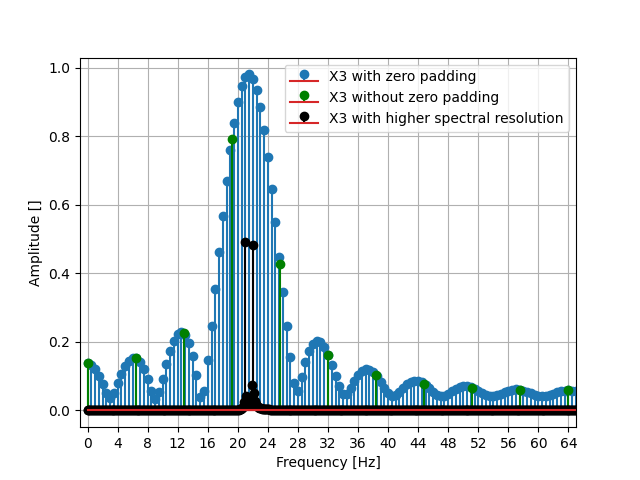
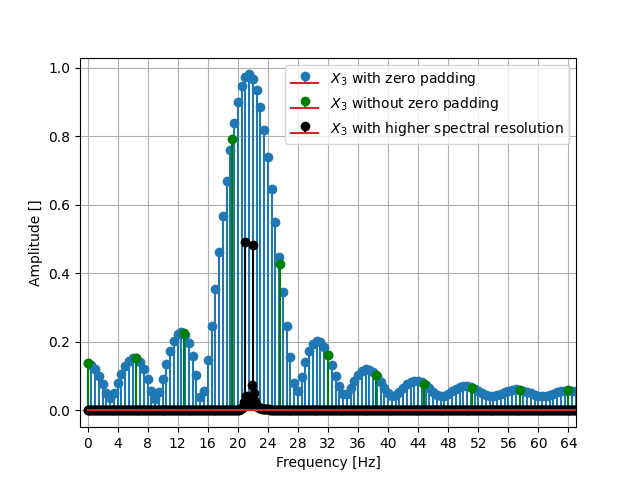
Done3

Changed region(s): [[0.4375, 0.125, 0.9062, 0.3125]]

diff --git a/Assignment 4/2.py b/Assignment 4/2.py
@@ -32,8 +32,8 @@ L = 256
 fs = 1/Ts
 fl2 = np.arange(0, L)/L*fs
 
-plt.stem(fl2, np.abs(X1b), label='X1 without zero padding')
-plt.stem(fl, np.abs(X1), label='X1 with zero padding', markerfmt="g", linefmt="g")
+plt.stem(fl2, np.abs(X1b), label='$X_1$ without zero padding')
+plt.stem(fl, np.abs(X1), label='$X_1$ with zero padding', markerfmt="g", linefmt="g")
 
 plt.legend()
 
@@ -51,8 +51,8 @@ plt.clf()
 
 
 
-plt.stem(fl2, np.abs(X2b), label='X2 without zero padding')
-plt.stem(fl, np.abs(X2), label='X2 with zero padding', markerfmt="g", linefmt="g")
+plt.stem(fl2, np.abs(X2b), label='$X_2$ without zero padding')
+plt.stem(fl, np.abs(X2), label='$X_2$ with zero padding', markerfmt="g", linefmt="g")
 
 plt.legend()
 plt.xlim(-1, fs/2+1)

diff --git a/Assignment 4/3.py b/Assignment 4/3.py
@@ -31,9 +31,9 @@ L = 256
 fs = 1/Ts
 fl2 = np.arange(0, L)/L*fs
 
-plt.stem(fl2, np.abs(X3b), label='X3 with zero padding')
+plt.stem(fl2, np.abs(X3b), label='$X_3$ with zero padding')
 
-plt.stem(fl, np.abs(X3), label='X3 without zero padding', markerfmt="g", linefmt="g")
+plt.stem(fl, np.abs(X3), label='$X_3$ without zero padding', markerfmt="g", linefmt="g")
 
 
 
@@ -51,7 +51,7 @@ fs = 1/Ts
 fl = np.arange(0, L)/L*fs
 
 
-plt.stem(fl, np.abs(X3), label="X3 with higher spectral resolution", markerfmt="k", linefmt="k")
+plt.stem(fl, np.abs(X3), label="$X_3$ with higher spectral resolution", markerfmt="k", linefmt="k")
 
 plt.legend()
 

diff --git a/Assignment 4/1.py b/Assignment 4/1.py
@@ -20,8 +20,8 @@ x1_array = x1(k_array)
 x2_array = x2(k_array)
 
 
-plt.stem(k_array, x1_array, label="x1[k]", markerfmt="b", linefmt="b")
-plt.stem(k_array, x2_array, label="x2[k]", markerfmt="g", linefmt="g")
+plt.stem(k_array, x1_array, label="$x_1[k]$", markerfmt="b", linefmt="b")
+plt.stem(k_array, x2_array, label="$x_2[k]$", markerfmt="g", linefmt="g")
 
 plt.xlabel('time step [k]')
 plt.ylabel('Amplitude []')
